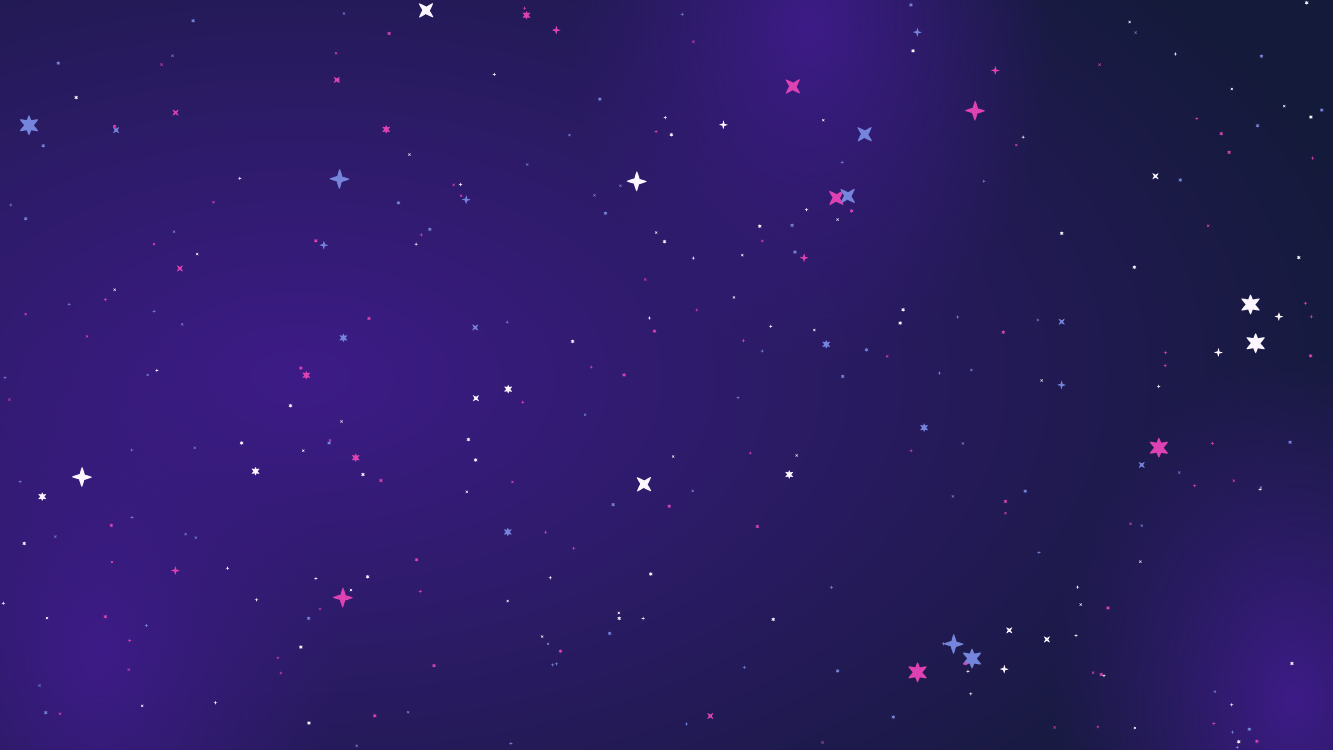
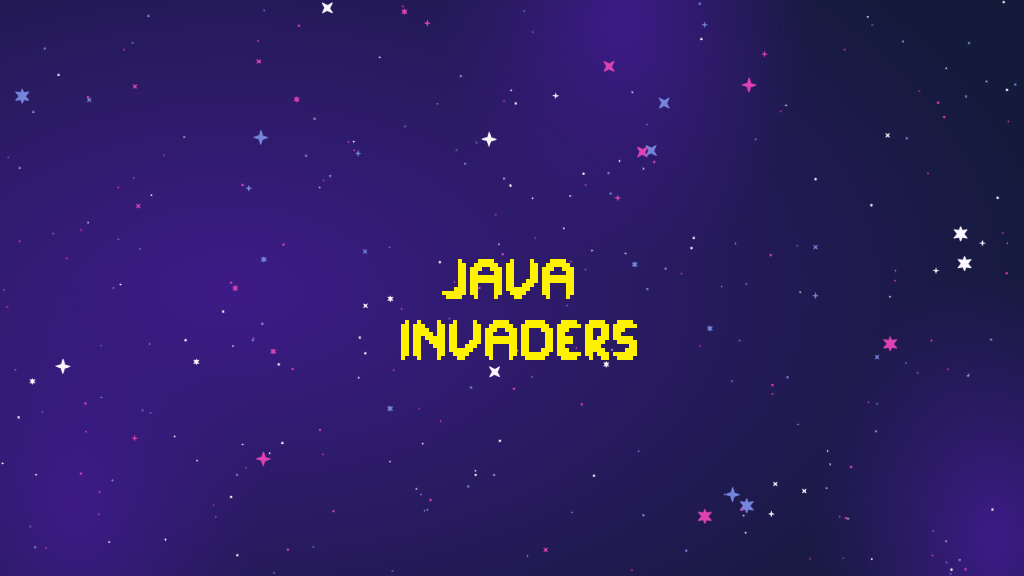
Tela de menu finalizada

Changed region(s): [[0.375, 0.4375, 0.625, 0.625]]

diff --git a/core/src/main/java/com/projectoop/javainvaders/MainMenuScreen.java b/core/src/main/java/com/projectoop/javainvaders/MainMenuScreen.java
@@ -3,6 +3,7 @@ package com.projectoop.javainvaders;
 
 import com.badlogic.gdx.Gdx;
 import com.badlogic.gdx.Screen;
+import com.badlogic.gdx.graphics.Color;
 import com.badlogic.gdx.graphics.GL20;
 import com.badlogic.gdx.graphics.Texture;
 import com.badlogic.gdx.graphics.g2d.BitmapFont;
@@ -12,58 +13,89 @@ import com.badlogic.gdx.scenes.scene2d.ui.Image;
 import com.badlogic.gdx.scenes.scene2d.ui.Table;
 import com.badlogic.gdx.scenes.scene2d.ui.TextButton;
 import com.badlogic.gdx.scenes.scene2d.utils.ChangeListener;
+import com.badlogic.gdx.utils.viewport.FitViewport;
 import com.badlogic.gdx.utils.viewport.ScreenViewport;
 
 public class MainMenuScreen implements Screen {
     final JavaInvadersGame game;        // referência ao jogo global
     private Stage stage;       
     private Texture backgroundTexture;
+    private TextButton newGameButton;
+    private TextButton exitGameButton;
+    private BitmapFont font;
 
+    private static final float GAME_WIDHT = 800;
+    private static final float GAME_HEIGHT = 600;
 
     public MainMenuScreen(JavaInvadersGame game) {
         this.game = game;
     }
 
+    private void setButtons() {
+        // determina uma fonte e estilo padrão para os botões
+        font = new BitmapFont();
+        TextButton.TextButtonStyle buttonStyle = new TextButton.TextButtonStyle();
+        buttonStyle.font = font;
+        buttonStyle.fontColor = Color.WHITE;
+        buttonStyle.overFontColor = Color.YELLOW;
+
+        this.newGameButton = new TextButton("New Game", buttonStyle);
+        this.newGameButton.setTransform(true);
+        this.newGameButton.setScale(1.5f);
+        this.exitGameButton = new TextButton("Quit Game", buttonStyle);
+        this.exitGameButton.setTransform(true);
+        this.exitGameButton.setScale(1.5f);
+
+
+        // adiciona a função de sair do jogo para o botão de sair
+        this.exitGameButton.addListener(new ChangeListener() {
+            @Override
+            public void changed(ChangeEvent e, Actor a) {
+                Gdx.app.exit();
+            }
+        });
+
+        // criar um novo jogo 
+        this.newGameButton.addListener(new ChangeListener() {
+            @Override
+            public void changed(ChangeEvent e, Actor a) {
+                game.setScreen(new GameScreen(game));
+
+                dispose();
+            }
+        });
+    }
+
+    // faz a configuração do layout da tela de menu
+    private void setLayout(Table table, Image image) {
+        
+        table.setFillParent(true);  // ocupa a tela inteira
+        image.setFillParent(true);
+        
+        table.bottom();
+        table.add(newGameButton).pad(15);
+        table.row();
+        table.add(exitGameButton).pad(15);
+        table.padBottom(50);
+    }
+
     @Override
     public void show() {
         // ScreenViewport se adapta à tela
-        stage = new Stage(new ScreenViewport());
+        stage = new Stage(new FitViewport(GAME_WIDHT, GAME_HEIGHT));
         
         // permite o reconhecimente de mouse e teclado
         Gdx.input.setInputProcessor(stage);
 
-        // determina uma fonte e estilo padrão para os botões
-        BitmapFont font = new BitmapFont();
-        TextButton.TextButtonStyle buttonStyle = new TextButton.TextButtonStyle();
-        buttonStyle.font = font;
-
-        TextButton newGameButton = new TextButton("New Game", buttonStyle);
-        TextButton loadGameButton = new TextButton("Load Game", buttonStyle);
-        TextButton exitGameButton = new TextButton("Quit Game", buttonStyle);
+        // inicializa e estiliza os botões
+        setButtons();
 
         backgroundTexture = new Texture(Gdx.files.internal("MainMenuBackground.png"));
         Image backgroundImage = new Image(backgroundTexture);
 
         // organiza o layout
         Table table = new Table();
-        table.setFillParent(true);  // ocupa a tela inteira
-        backgroundImage.setFillParent(true);
-        
-        table.bottom();
-        table.add(newGameButton).pad(10);
-        table.row();
-        table.add(loadGameButton).pad(10);
-        table.row();
-        table.add(exitGameButton).pad(10);
-        table.padBottom(50);
-
-        // adiciona a função de sair do jogo para o botão de sair
-        exitGameButton.addListener(new ChangeListener() {
-            @Override
-            public void changed(ChangeEvent e, Actor a) {
-                Gdx.app.exit();
-            }
-        });
+        setLayout(table, backgroundImage);
 
         stage.addActor(backgroundImage);
         stage.addActor(table);
@@ -71,7 +103,6 @@ public class MainMenuScreen implements Screen {
 
     @Override
     public void render(float delta) {
-        // Draw your screen here. "delta" is the time since last render in seconds.
         Gdx.gl.glClearColor(0, 0, 0.1f, 1);       // limpa a tela para um azul bem escuro(0.1f no azul)
         Gdx.gl.glClear(GL20.GL_COLOR_BUFFER_BIT);       // aplica a limpeza
 
@@ -81,11 +112,9 @@ public class MainMenuScreen implements Screen {
 
     @Override
     public void resize(int width, int height) {
-        // If the window is minimized on a desktop (LWJGL3) platform, width and height are 0, which causes problems.
-        // In that case, we don't resize anything, and wait for the window to be a normal size before updating.
+        // Verifica se a tela está minimizada e, se sim, não renderiza nada
         if(width <= 0 || height <= 0) return;
 
-        // Resize your screen here. The parameters represent the new window size.
         stage.getViewport().update(width, height, true);        // atualiza o viewport caso o usuario redimensione a tela
     }
 
@@ -106,9 +135,10 @@ public class MainMenuScreen implements Screen {
 
     @Override
     public void dispose() {
-        // Destroy screen's assets here.
-        stage.dispose();  // libera a memória(NÂO RETIRAR)
+        // libera a memória(NÂO RETIRAR)
+        stage.dispose();  
         backgroundTexture.dispose();
+        font.dispose();
     }
 
 }

diff --git a/core/src/main/java/com/projectoop/javainvaders/GameScreen.java b/core/src/main/java/com/projectoop/javainvaders/GameScreen.java
@@ -1,0 +1,78 @@
+package com.projectoop.javainvaders;
+
+import com.badlogic.gdx.Gdx;
+import com.badlogic.gdx.Screen;
+import com.badlogic.gdx.graphics.GL20;
+import com.badlogic.gdx.graphics.OrthographicCamera;
+import com.badlogic.gdx.utils.viewport.FitViewport;
+import com.badlogic.gdx.utils.viewport.Viewport;
+
+public class GameScreen implements Screen {
+    final JavaInvadersGame game;
+    private OrthographicCamera camera;
+    private Viewport view;
+
+    // variaveis que definem o tamanho da tela do jogo
+    private static final float GAME_WIDHT = 800;
+    private static final float GAME_HEIGHT = 600;
+
+    public GameScreen(JavaInvadersGame game) {
+        this.game = game;
+
+        camera = new OrthographicCamera();
+        view = new FitViewport(GAME_WIDHT, GAME_HEIGHT, camera);
+
+        camera.position.set(GAME_HEIGHT/2f, GAME_WIDHT/2f, 0);
+    }
+
+    @Override
+    public void show() {
+        // inicializar as entidades do jogo
+    }
+
+    @Override
+    public void render(float delta) {
+        Gdx.gl.glClearColor(0, 0, 0, 1);
+        Gdx.gl.glClear(GL20.GL_COLOR_BUFFER_BIT);
+
+        // Deve ser chamado toda vez antes de desenhar algo se a câmera tiver se movido ou se a tela foi redimensionada.
+        camera.update();
+
+        game.sprite.setProjectionMatrix(camera.combined);
+
+        // o sprite dever ser renderizado aqui
+        // game.sprite.begin
+        // DESENHO
+        // game.sprite.end
+    }
+
+    @Override
+    public void resize(int width, int height) {
+        // If the window is minimized on a desktop (LWJGL3) platform, width and height are 0, which causes problems.
+        // In that case, we don't resize anything, and wait for the window to be a normal size before updating.
+        if(width <= 0 || height <= 0) return;
+
+        // Resize your screen here. The parameters represent the new window size.
+        view.update(width, height);
+    }
+
+    @Override
+    public void pause() {
+        // Invoked when your application is paused.
+    }
+
+    @Override
+    public void resume() {
+        // Invoked when your application is resumed after pause.
+    }
+
+    @Override
+    public void hide() {
+        // This method is called when another screen replaces this one.
+    }
+
+    @Override
+    public void dispose() {
+        // Destroy screen's assets here.
+    }
+}